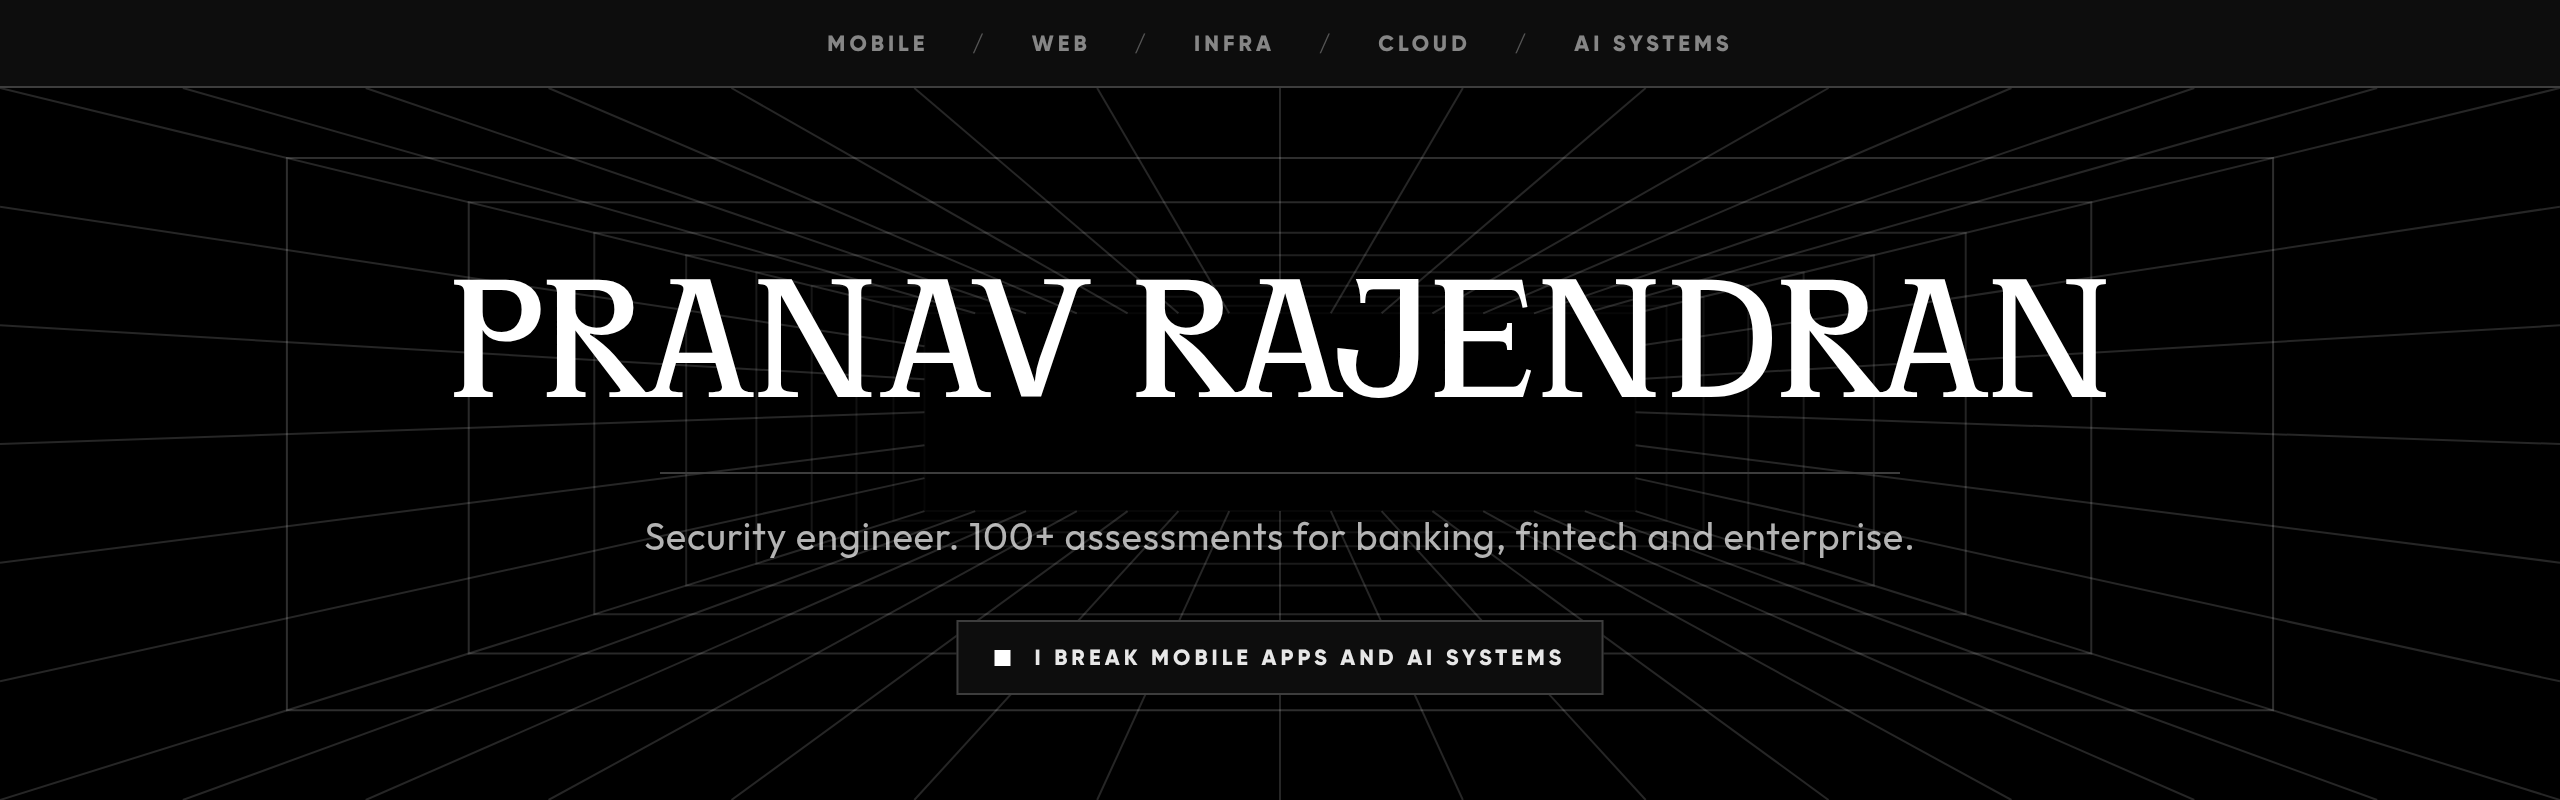
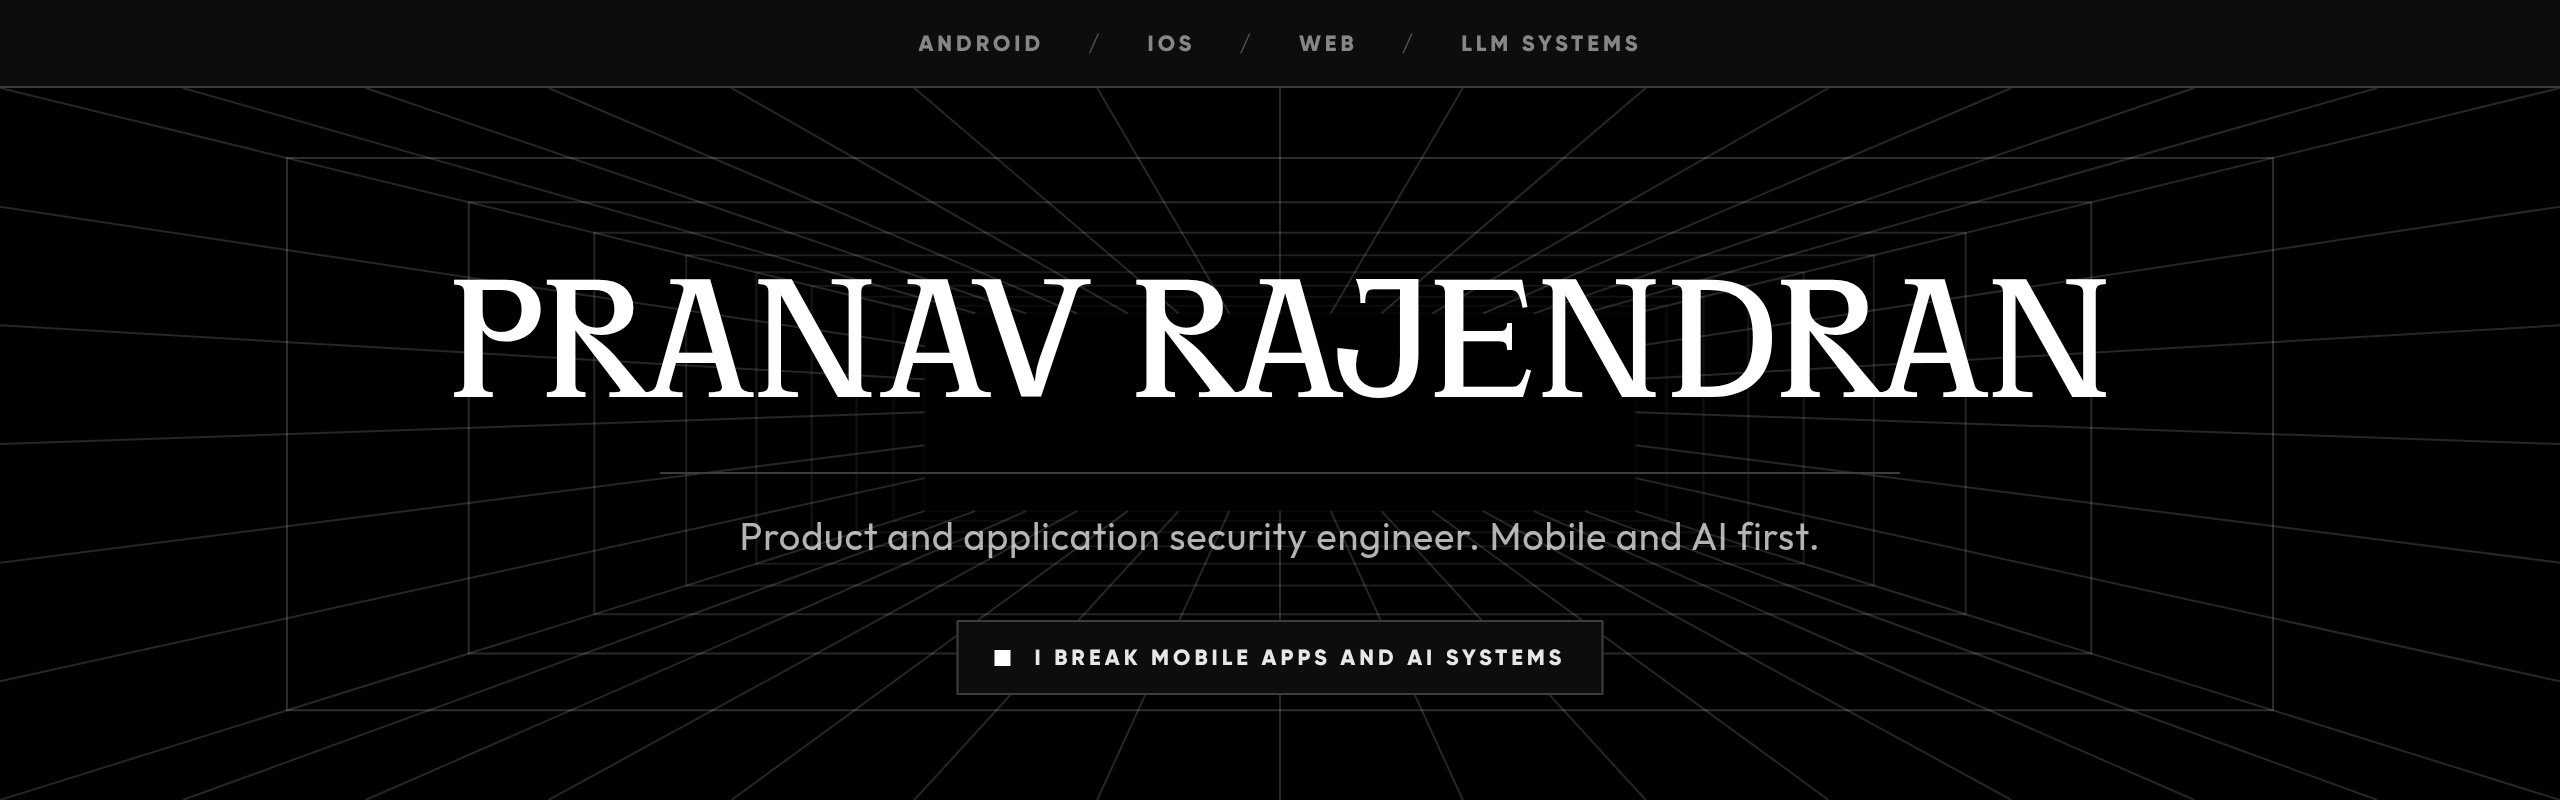
new

Changed region(s): [[0.25, 0.6562, 0.75, 0.6875], [0.3125, 0.0312, 0.6875, 0.0625]]

diff --git a/README.md b/README.md
@@ -1,22 +1,14 @@
 <p align="center">
   <a href="https://pranavrajendran.com">
-    <img src="assets/banner.png" alt="Pranav Rajendran, security engineer. Mobile, web, infra, cloud and AI systems." width="100%">
+    <img src="assets/banner.png" alt="Pranav Rajendran, product and application security engineer. Android, iOS, web and LLM systems." width="100%">
   </a>
-</p>
-
-<p align="center">
-  <a href="https://pranavrajendran.com"><img src="https://img.shields.io/badge/pranavrajendran.com-0d0d0d?style=flat-square" alt="Website"></a>
-  <a href="https://pranavrajendran.com/blog"><img src="https://img.shields.io/badge/Blog-0d0d0d?style=flat-square" alt="Blog"></a>
-  <a href="https://www.linkedin.com/in/pranav-rajendran/"><img src="https://img.shields.io/badge/LinkedIn-0d0d0d?style=flat-square&logo=linkedin&logoColor=white" alt="LinkedIn"></a>
-  <a href="https://x.com/thekimi_7"><img src="https://img.shields.io/badge/X-0d0d0d?style=flat-square&logo=x&logoColor=white" alt="X"></a>
-  <a href="mailto:inbox@pranavrajendran.com"><img src="https://img.shields.io/badge/inbox@pranavrajendran.com-0d0d0d?style=flat-square" alt="Email"></a>
 </p>
 
 <br>
 
-I'm a security engineer. Most of my work is breaking things for banks, fintechs and enterprises: mobile apps, web apps, infrastructure and cloud configuration, tested against OWASP and CIS. 100+ assessments so far. Mobile is where I'm deepest. I also do physical red teaming and social engineering, and I audit AI and automation systems.
+I'm a product and application security engineer, mostly mobile and AI. 100+ assessments across Android, iOS, web and LLM systems for banks, fintechs and enterprises, tested against OWASP and CIS. Mobile is where I'm deepest. I also do physical red teaming and social engineering.
 
-I'd rather build a tool than wait for one. When the control software for my Linux laptop turned out to be Windows-only, I wrote **strixctl**. When Android 14 broke certificate injection for assessments, I wrote **TrustMeDarling**. Right now I'm building agentic tooling for the repetitive parts of an assessment, from triage to reporting.
+I'd rather build a tool than wait for one. When Android 14 broke certificate injection for assessments, I wrote **TrustMeDarling**. When the control software for my Linux laptop turned out to be Windows-only, I wrote **strixctl**. When my desktop had no proper snipping tool, I wrote **snip**. Right now I'm building agentic tooling for the repetitive parts of an assessment, from triage to reporting.
 
 <br>
 
@@ -24,10 +16,10 @@ I'd rather build a tool than wait for one. When the control software for my Linu
 
 | | | |
 |:--|:--|:--|
-| [**strixctl**](https://github.com/TheKimi7/strixctl) | Battery limit, fan curves and four-zone RGB for ASUS ROG laptops on Linux. GTK3, no daemon, no root at runtime. | `Python` `GTK3` |
 | [**TrustMeDarling**](https://github.com/TheKimi7/TrustMeDarling) | Puts user-installed CA certificates into the system trust store on Android 14+, so traffic interception works again. | `Magisk` `Bash` |
 | [**SeQueL**](https://github.com/TheKimi7/SeQueL) | sqlite3 on Android test devices, for poking at app databases mid-assessment. | `Magisk` `Bash` |
-| **APK Analyzer** <sub>in progress</sub> | Static analysis of Android APKs that writes up its findings as a vulnerability report, with an LLM doing the drafting. | `Python` `JADX` |
+| [**strixctl**](https://github.com/TheKimi7/strixctl) | Battery limit, fan curves and four-zone RGB for ASUS ROG laptops on Linux. GTK3, no daemon, no root at runtime. | `Python` `GTK3` |
+| [**snip**](https://github.com/TheKimi7/snip) | Win+Shift+S and PowerToys-style text extraction for Cinnamon on X11. Runs entirely on the machine: no network, no telemetry, no root. | `Python` `GTK3` `Tesseract` |
 
 <br>
 
@@ -48,25 +40,14 @@ Notes from real assessments, written for whoever is setting up the same thing ne
 | | |
 |:--|:--|
 | **Mobile** | `Frida` `Objection` `Magisk` `LSPosed` `MobSF` `Drozer` `JADX` `APKTool` `ADB` |
+| **AI and LLM** | `Prompt injection` `Agent tool abuse` `n8n` `OWASP Top 10 for LLMs` |
 | **Web and API** | `Burp Suite` `Postman` `REST` `GraphQL` `JWT` `OAuth 2.0` |
 | **Infra and cloud** | `Nmap` `Nessus` `Metasploit` `Wireshark` `AWS` `CIS Benchmarks` |
-| **AI and LLM** | `Prompt injection` `Agent tool abuse` `n8n` `OWASP Top 10 for LLMs` |
+| **Red teaming** | `Physical red teaming` `Social engineering` |
 | **Building** | `Python` `Bash` `JavaScript` `Java` `Kotlin` `Ghidra` `Docker` |
 | **Operating systems** | `Kali` `AthenaOS` `BlackArch` `Android` `iOS` `macOS` `Windows` |
 
 Certified: **CEH v13**, EC-Council, 2026.
-
-<br>
-
-<details>
-<summary><b>Locked</b></summary>
-<br>
-
-There's a four-digit lock in the corner of [pranavrajendran.com](https://pranavrajendran.com). No digit repeats. Every guess tells you which digits are in the right place, which are misplaced and which aren't in the code at all.
-
-Guess too fast and it rate-limits you. That part is a real defence, not a joke.
-
-</details>
 
 <br>
 
